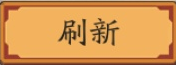
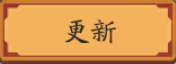
update GeneralRoom

Changed region(s): [[0.0, 0.0, 1.0, 1.0], [0.3125, 0.25, 0.6818, 0.7188]]

diff --git a/tasks/Component/GeneralRoom/assets.py b/tasks/Component/GeneralRoom/assets.py
@@ -39,9 +39,9 @@ class GeneralRoomAssets:
 	# description 
 	I_GR_BACK_YELLOW = RuleImage(roi_front=(19,13,53,53), roi_back=(19,13,53,53), threshold=0.8, method="Template matching", file="./tasks/Component/GeneralRoom/gr/gr_gr_back_yellow.png")
 	# 自动匹配 
-	I_GR_AUTO_MATCH = RuleImage(roi_front=(697,598,181,63), roi_back=(697,598,181,63), threshold=0.8, method="Template matching", file="./tasks/Component/GeneralRoom/gr/gr_gr_auto_match.png")
+	I_GR_AUTO_MATCH = RuleImage(roi_front=(697,596,180,66), roi_back=(697,596,180,66), threshold=0.8, method="Template matching", file="./tasks/Component/GeneralRoom/gr/gr_gr_auto_match.png")
 	# 刷新 
-	I_GR_REFRESH = RuleImage(roi_front=(417,595,176,65), roi_back=(417,595,176,65), threshold=0.8, method="Template matching", file="./tasks/Component/GeneralRoom/gr/gr_gr_refresh.png")
+	I_GR_REFRESH = RuleImage(roi_front=(416,596,176,64), roi_back=(416,596,176,64), threshold=0.8, method="Template matching", file="./tasks/Component/GeneralRoom/gr/gr_gr_refresh.png")
 	# description 
 	I_ENSURE_PUBLIC = RuleImage(roi_front=(400,282,35,37), roi_back=(400,282,35,37), threshold=0.8, method="Template matching", file="./tasks/Component/GeneralRoom/gr/gr_ensure_public.png")
 	# description 

diff --git a/module/atom/image.py b/module/atom/image.py
@@ -309,11 +309,6 @@ class RuleImage:
 if __name__ == "__main__":
     from dev_tools.assets_test import detect_image
 
-
-    #sign = RealmRaidAssets.I_MEDAL_0
-    #sign.method = 'Template matching'
-    #detect_image(IMAGE_FILE, sign)
-    #print(sign.roi_front)
     IMAGE_FILE = r"C:\Users\MG\Desktop\4.png"
     #from tasks.Component.ReplaceShikigami.assets import ReplaceShikigamiAssets
     #jade = ReplaceShikigamiAssets.I_U_CONFIRM_ALTERNATE
@@ -322,8 +317,8 @@ if __name__ == "__main__":
     #print(jade.roi_front)
     #print(jade.roi_back)
 
-    from tasks.KekkaiActivation.assets import KekkaiActivationAssets
-    jade = KekkaiActivationAssets.I_A_DEMOUNT
+    from tasks.Component.GeneralRoom.assets import GeneralRoomAssets
+    jade = GeneralRoomAssets.I_GR_AUTO_MATCH
     jade.method = 'Template matching'
     detect_image(IMAGE_FILE, jade)
     print(jade.roi_front)
